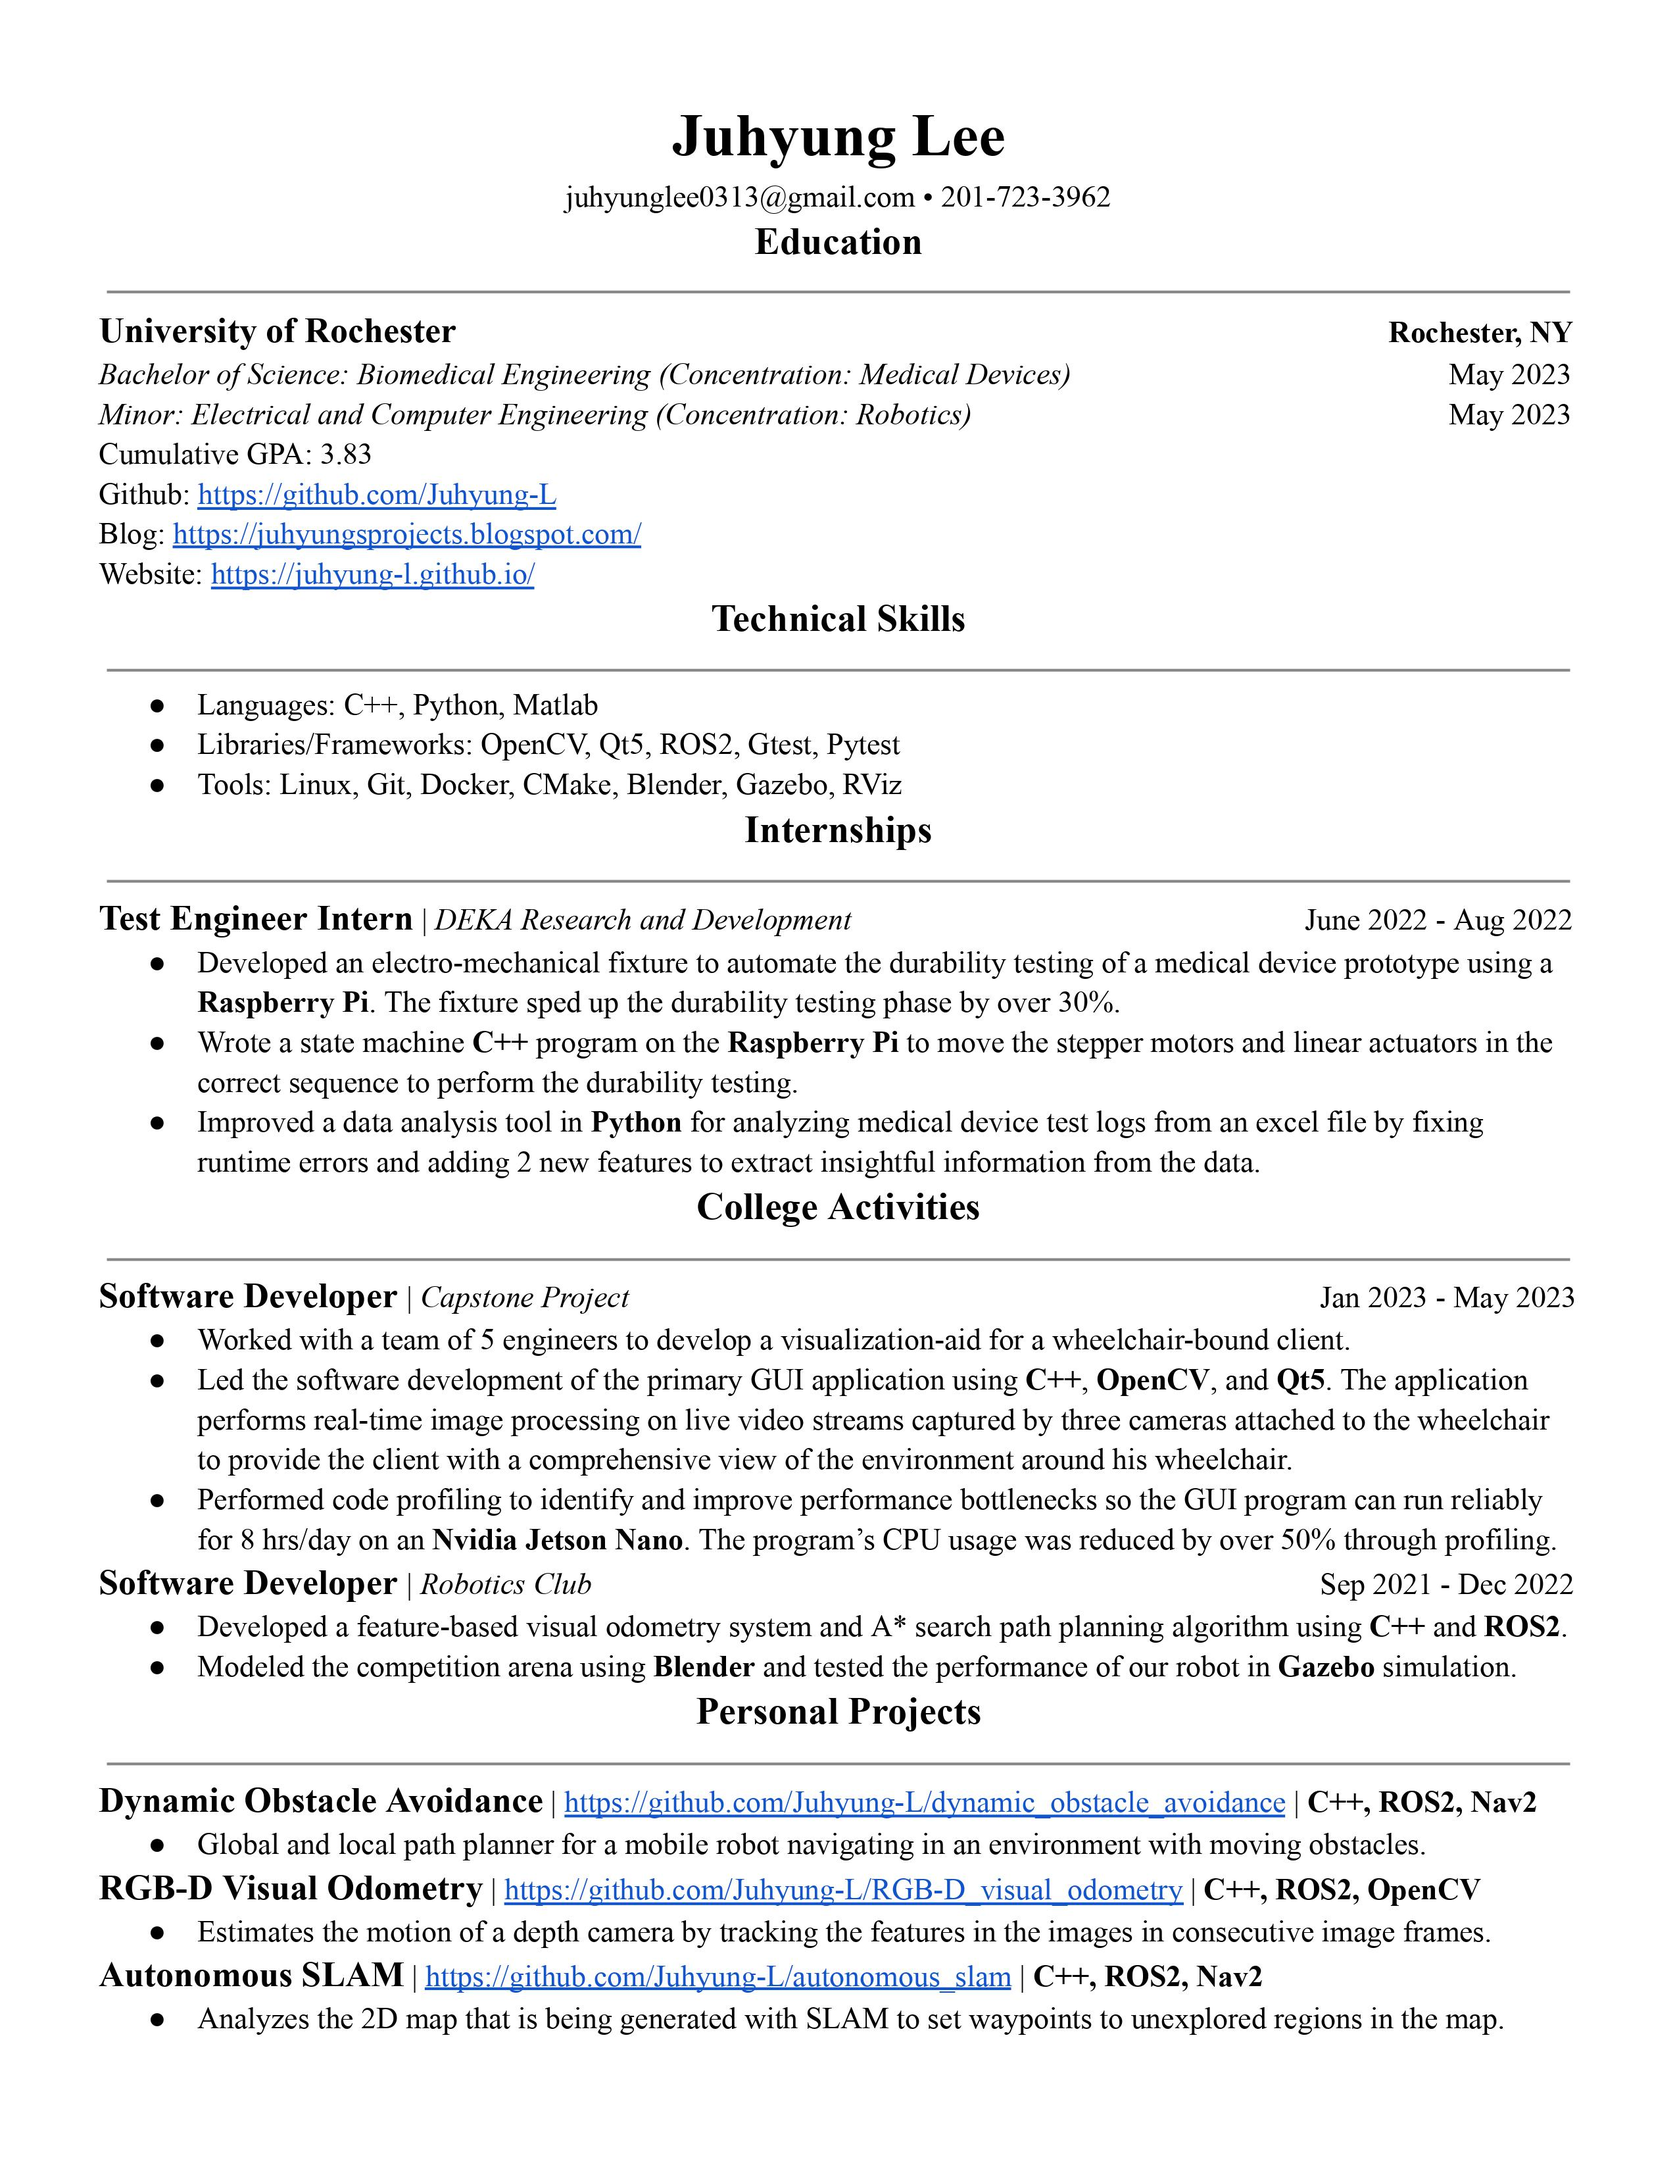
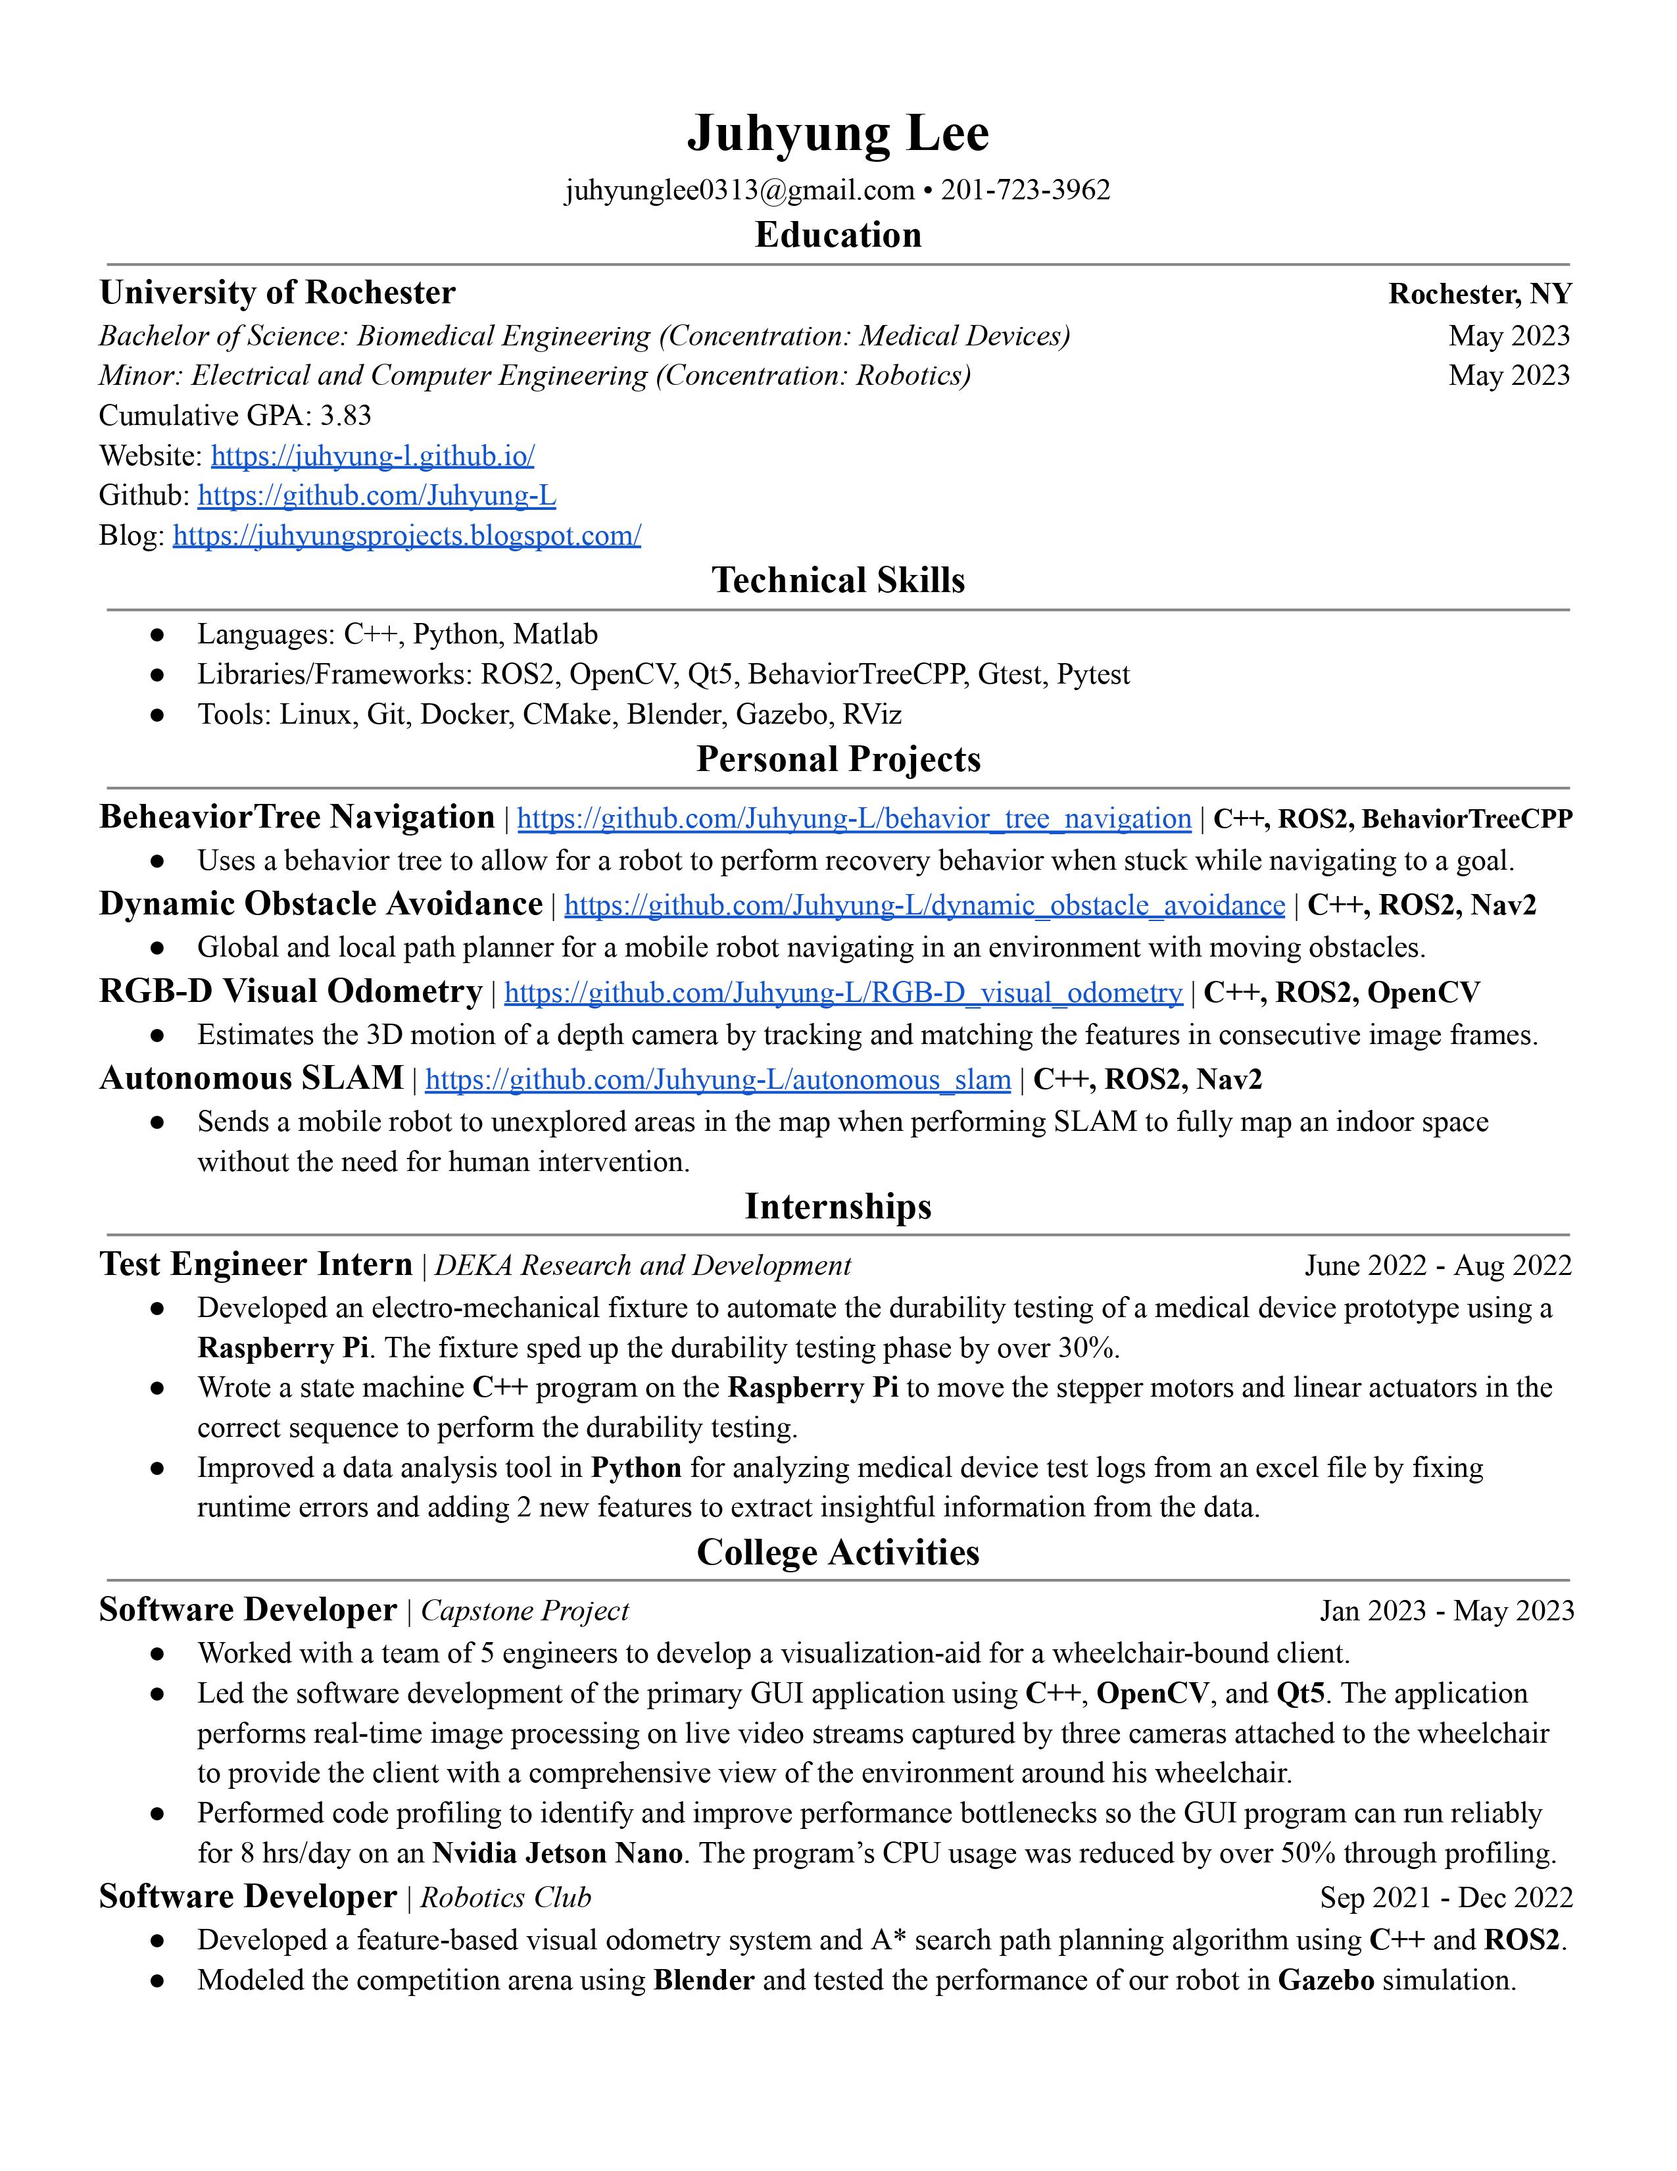
Edited Resume and intro

Changed region(s): [[0.062, 0.0312, 0.9294, 0.9364], [0.8055, 0.1248, 0.9294, 0.1873]]

diff --git a/src/pages/Home.jsx b/src/pages/Home.jsx
@@ -30,11 +30,10 @@ const Home = () => {
       </div>
       <div className='mt-5 flex flex-col gap-3 text-slate-500'>
         <p>
-          I am a aspiring software engineer interested in programming electronic devices.
-          I have a special interest in Robotics, but I am open a wide range of fields that deal with electronic devices.
-          I started programming in my junior year at the University of Rochester and ever since then, I have been involved with a variety of different projects where I got to use my programming skills to solve real-world problems.
+          I am a aspiring software engineer with a special interest in Robotics.
+          I started programming in my junior year at the University of Rochester and ever since then, I have been involved in a variety of different Robotics-related projects.
           I graduated from college in May of 2023 and I am currently looking for a full-time position.
-          Please check out this website and shoot me a message on Linkedin or through the Contact page if you are interested.
+          The purpose of this website is to showcase my personal projects. Please check them out and shoot me a message on Linkedin or through the Contact page if you are interested.
         </p>
       </div>
 

diff --git a/src/constants/index.js b/src/constants/index.js
@@ -130,6 +130,14 @@ export const experiences = [
 
 export const projects = [
     {
+        theme: 'btn-back-blue',
+        name: 'BehaviorTree Navigation',
+        description: 'Uses a behavior tree to allow for a mobile robot to perform recovery behavior when stuck while navigating to a goal',
+        github: 'https://github.com/Juhyung-L/behavior_tree_navigation',
+        blogger: 'https://juhyungsprojects.blogspot.com/2024/06/behavior-tree-navigation.html',
+        videoId: 'qKYPtDzhmn0'
+    },
+    {
         theme: 'btn-back-orange',
         name: 'Dynamic Obstacle Avoidance',
         description: 'Implemented a global and local path planner for a mobile robot navigating in a 2D map with moving obstacles',
